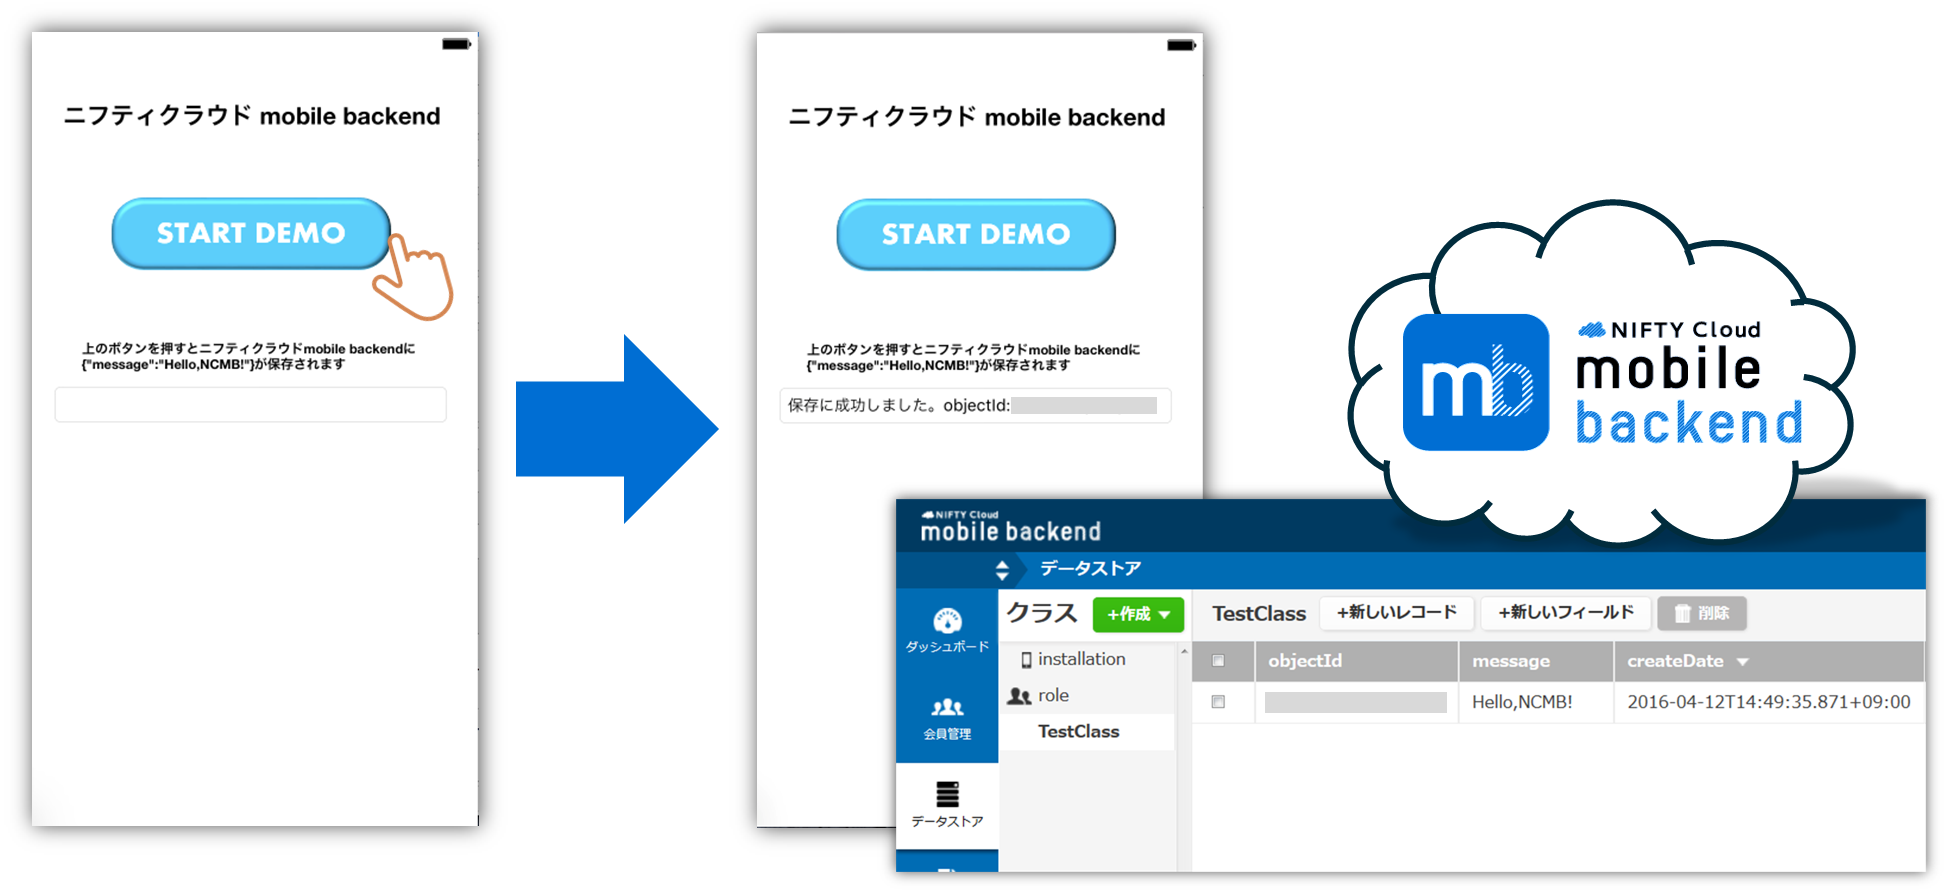
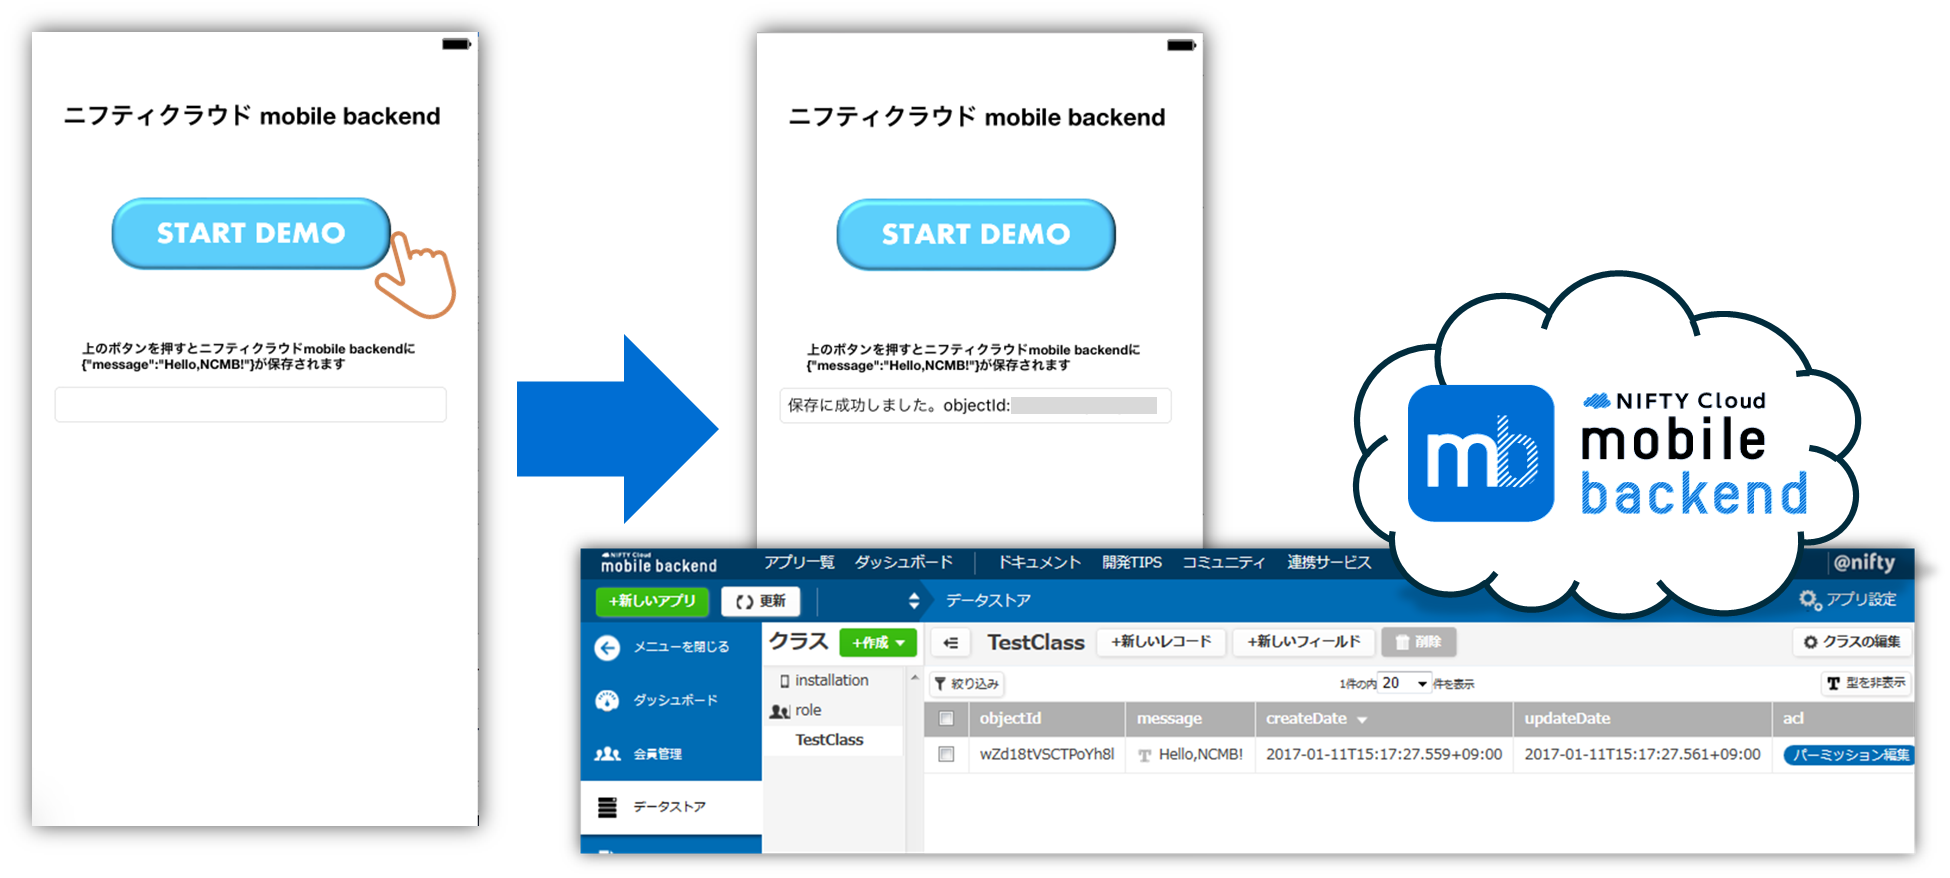
update README to adapt new dashboard
・新コンパネ対応
・微修正

diff --git a/README.md b/README.md
@@ -38,15 +38,19 @@
 
 ![画像5](/readme-img/005.png)
 
-### 2. [GitHub](https://github.com/natsumo/iOS-Objective-C_DB_DEMO.git)からサンプルプロジェクトのダウンロード
-
-* この画面([GitHub](https://github.com/natsumo/iOS-Objective-C_DB_DEMO.git))の![画像10](/readme-img/010.png)ボタンをクリックし、さらに![画像14](/readme-img/014.PNG)ボタンをクリックしてサンプルプロジェクトをMacにダウンロードします
+#### 2. GitHubからサンプルプロジェクトのダウンロード
+* 下記リンクをクリックしてプロジェクトをダウンロードをMacにダウンロードします
+ * __[DB_Objective-C](https://github.com/NIFTYCloud-mbaas/iOS-Objective-C_DB_DEMO/archive/master.zip)__
 
 ### 3. Xcodeでアプリを起動
+* ダウンロードしたフォルダを開き、「DB_Objective-C.xcworkspace」をダブルクリックしてXcode開きます(白い方です)
 
-* ダウンロードしたフォルダを開き、![画像09](/readme-img/009.png)をダブルクリックしてXcode開きます　![画像08](/readme-img/008.png)
+![画像09](/readme-img/009.png)
 
 ![画像6](/readme-img/006.png)
+
+* 「DB_Objective-C.xcodeproj」（青い方）ではないので注意してください！
+![画像08](/readme-img/008.png)
 
 ### 4. APIキーの設定
 
